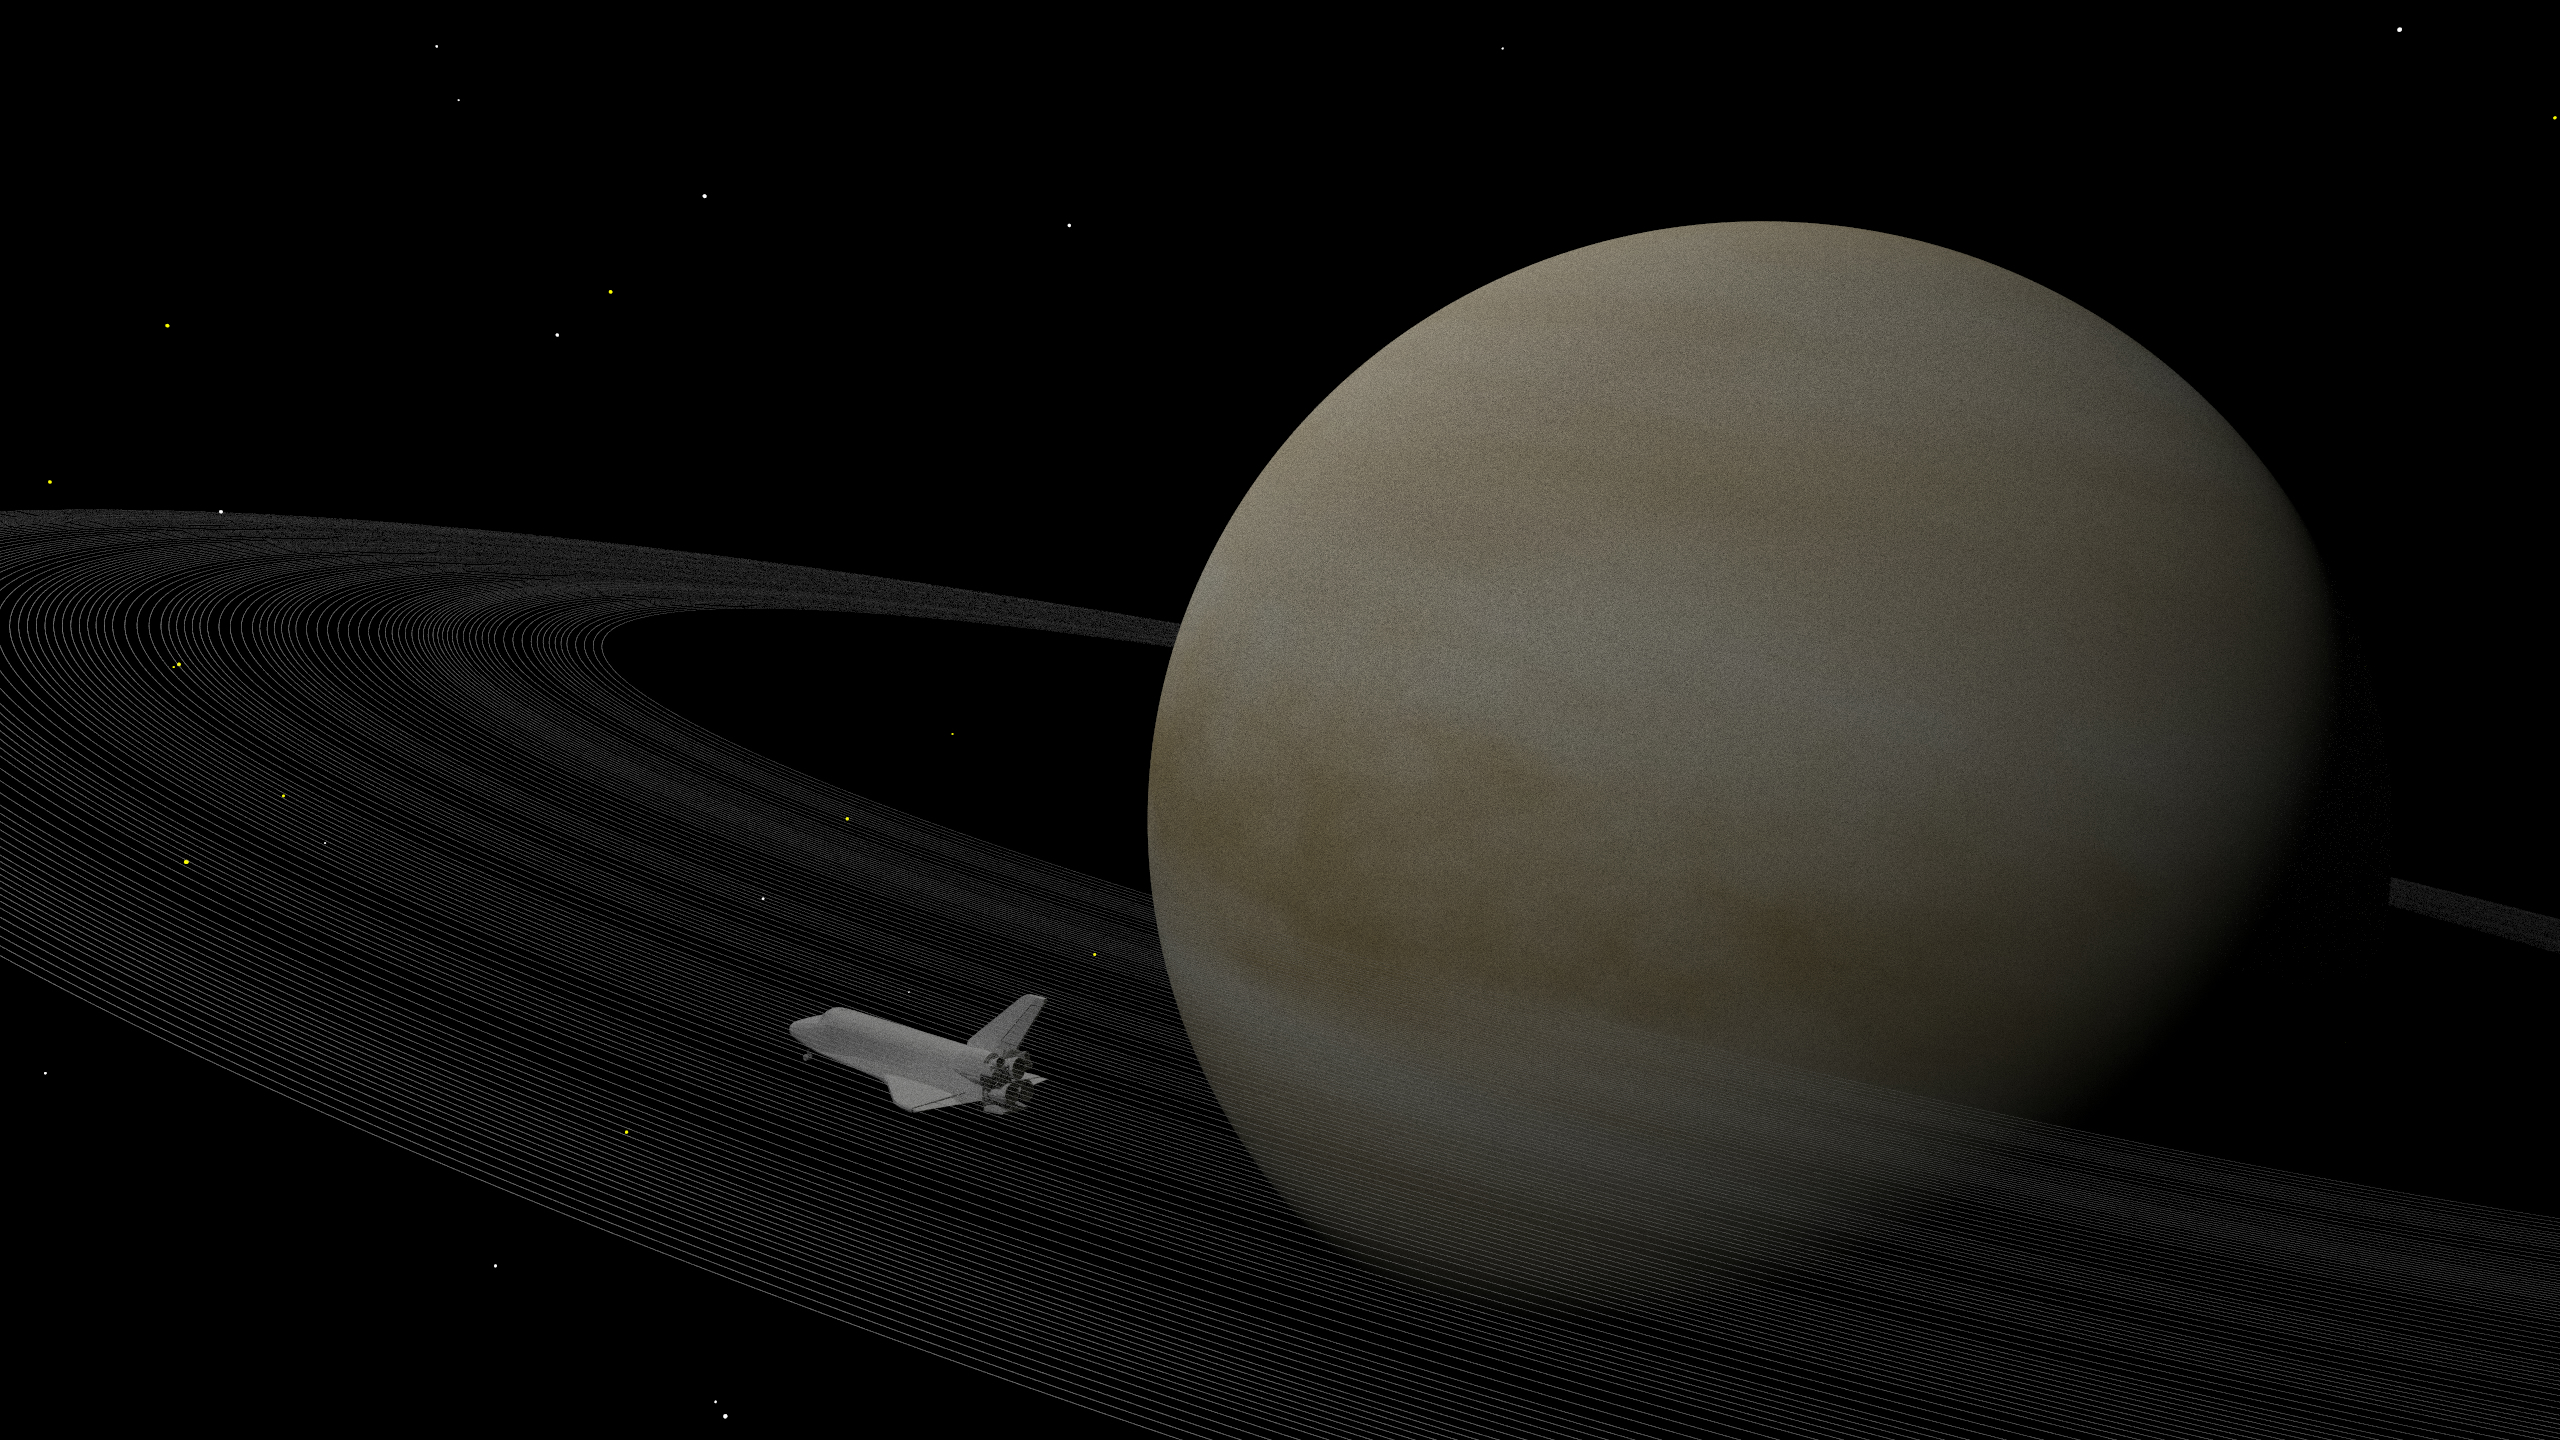
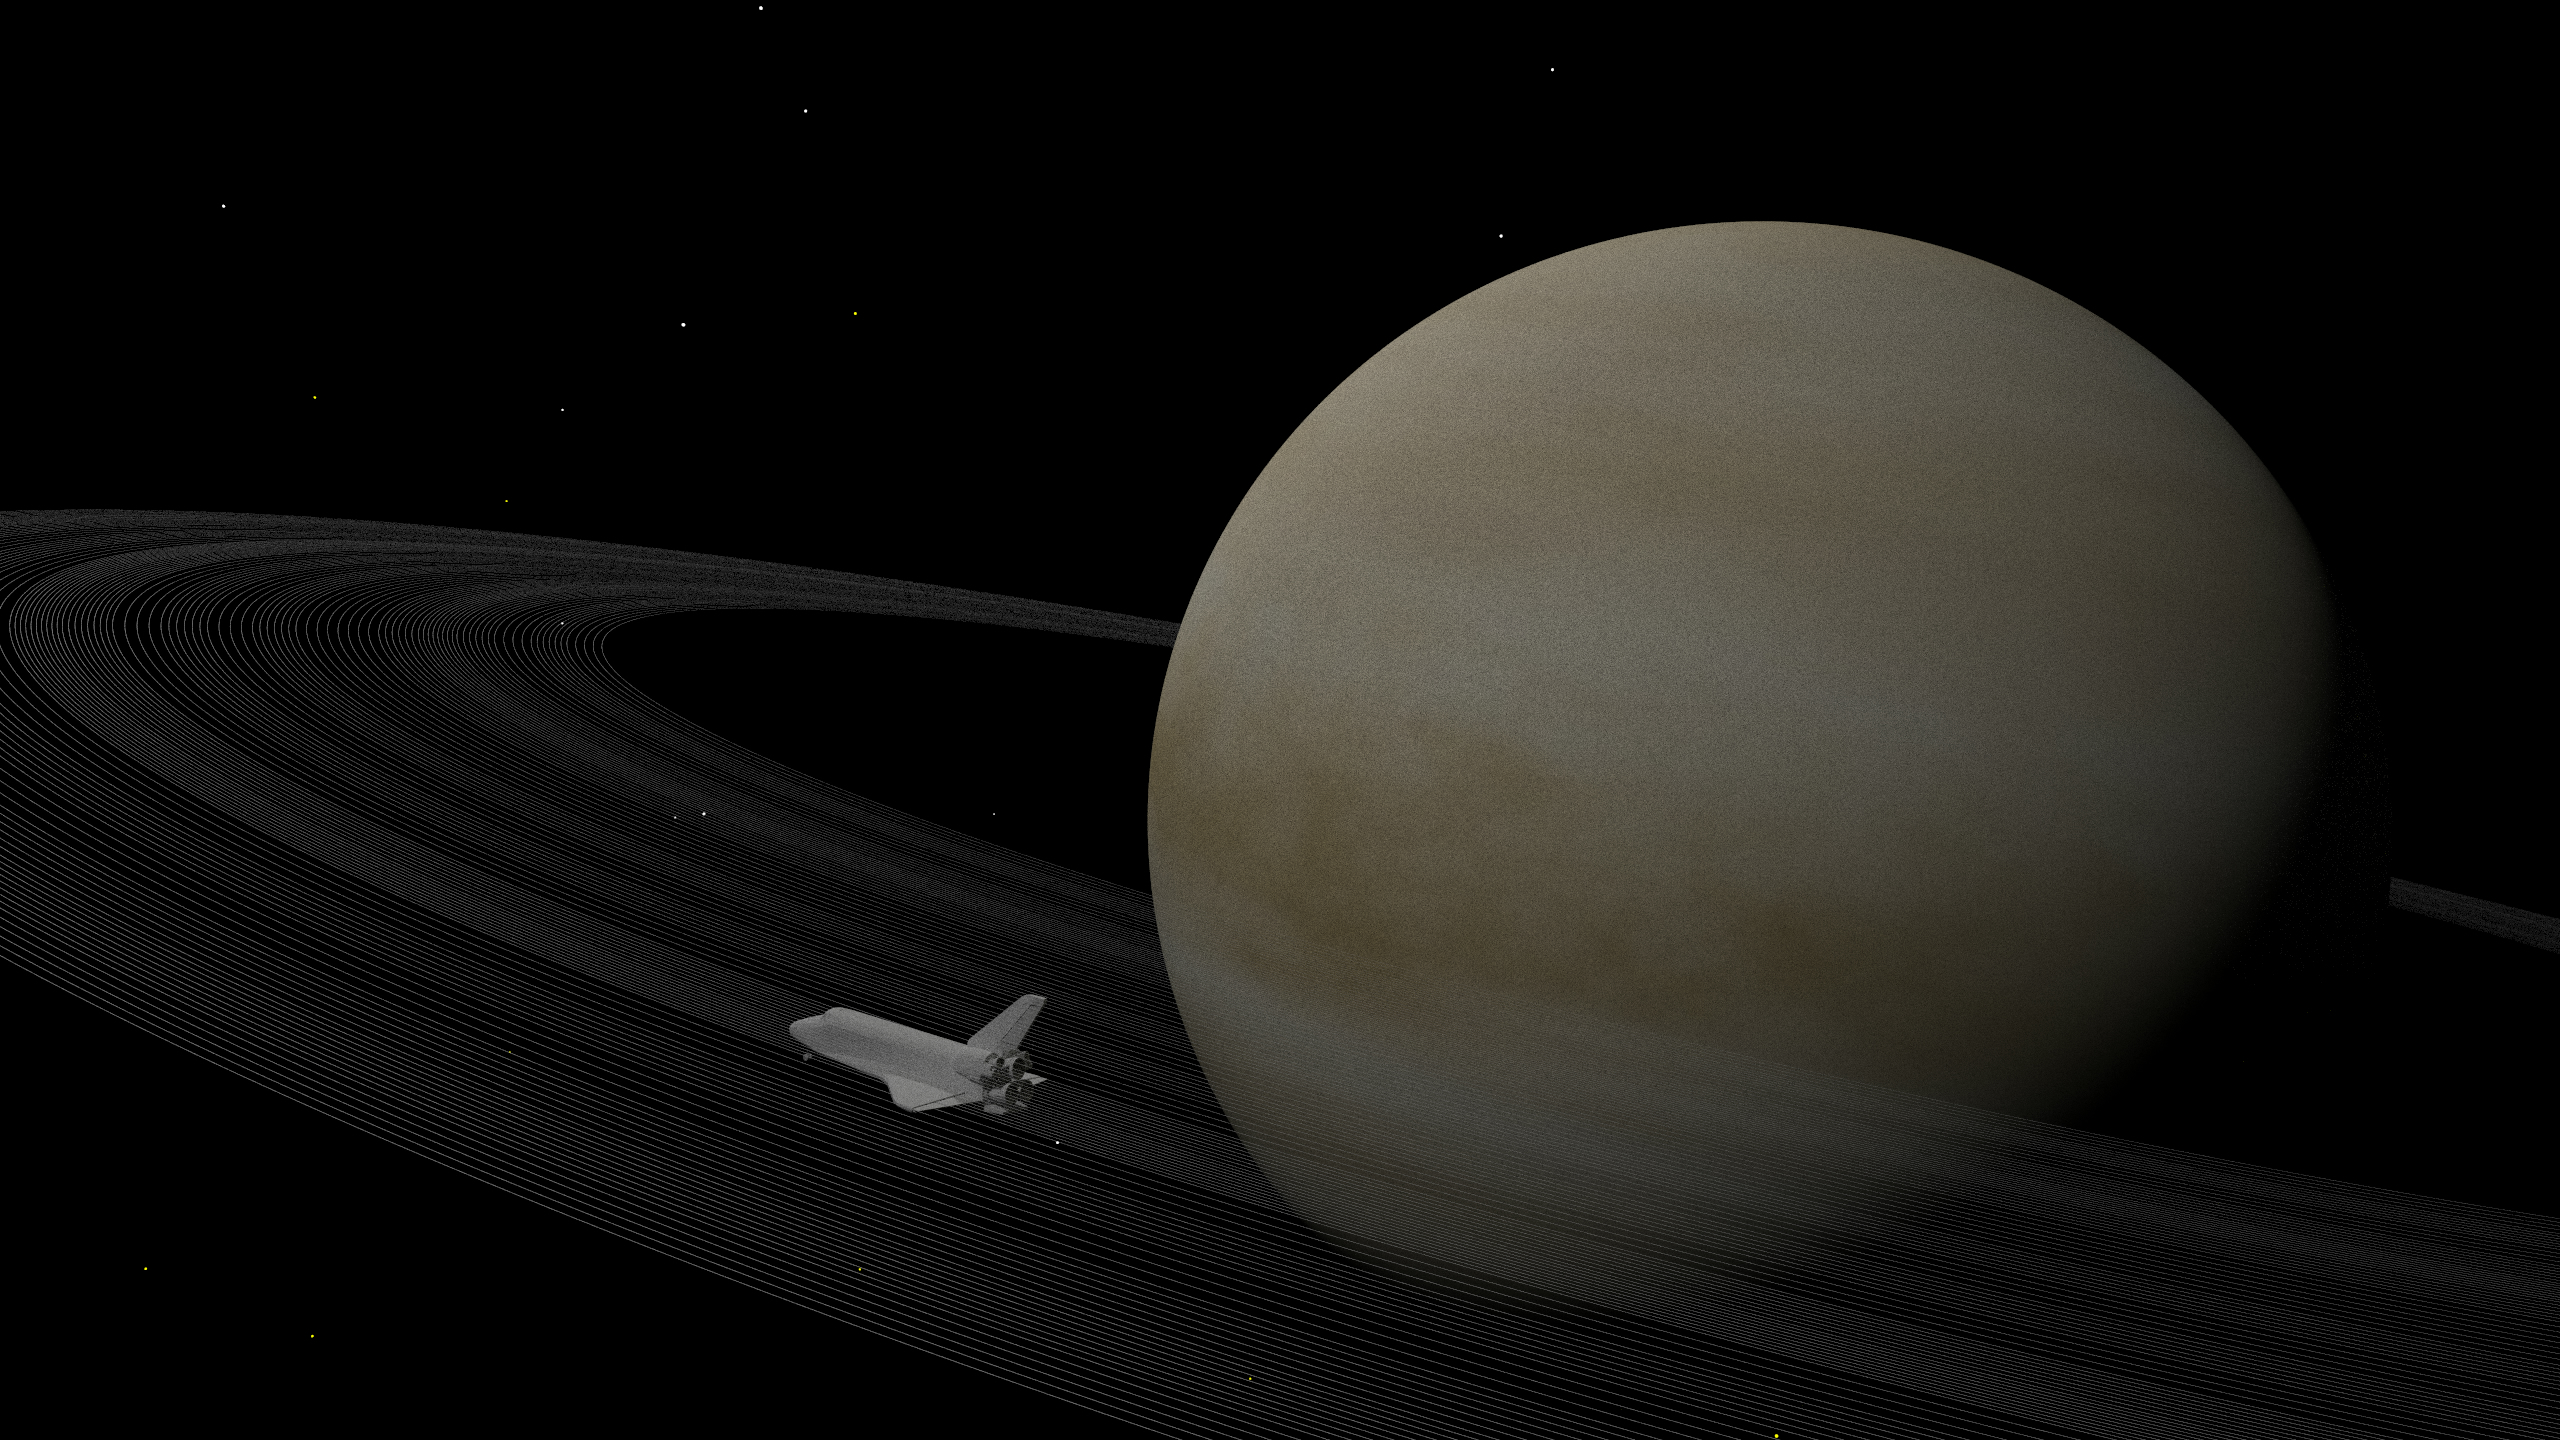
Final scene 0.1

Changed region(s): [[0.375, 0.75, 0.9062, 1.0], [0.0, 0.375, 0.3125, 0.7188], [0.1562, 0.375, 0.25, 0.4062]]

diff --git a/raytracer/src/scene.rs b/raytracer/src/scene.rs
@@ -687,7 +687,7 @@ pub fn wwscene() -> (HittableList, HittableList) {
 
     const CNT: usize = 20;
     let delta: usize = 2;
-    let weight: [usize; CNT] = [2, 3, 2, 3, 4, 3, 2, 2, 3, 2, 3, 2, 3, 3, 2, 3, 2, 3, 4, 3];
+    let weight: [usize; CNT] = [2, 3, 2, 3, 4, 3, 2, 2, 3, 2, 3, 2, 4, 5, 2, 3, 2, 3, 4, 3];
 
     let mut now = 80;
     for k in 0..CNT {
@@ -710,6 +710,17 @@ pub fn wwscene() -> (HittableList, HittableList) {
         let star = Sphere::new(Point3::new(rng.gen_range(-500.0..=500.0), rng.gen_range(-300.0..=300.0), rng.gen_range(200.0..=400.0)), rng.gen_range(0.2..=0.5), DiffuseLight::new(scolor));
         world.add(Arc::new(star))
     }
+
+    // add 
+//     let flat_rect = XZRect::new(
+//         -500.,
+//         500.,
+//         -500.,
+//         500.,
+//         -0.0001,
+//         Dielectric::new(1.5),
+//     );
+//     world.add(Arc::new(flat_rect));
     
     // Import Object
     get_Shuttle(&mut world);
